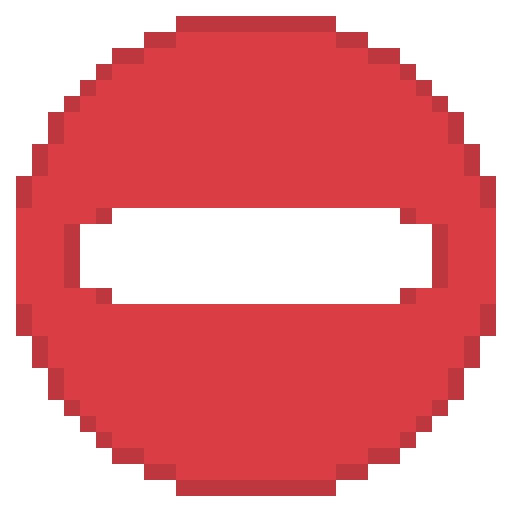
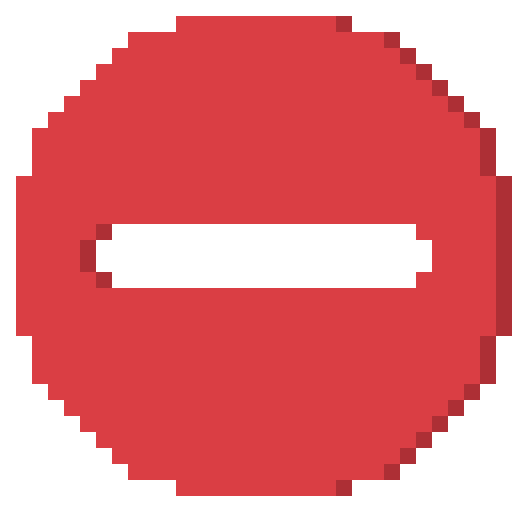
updates images, also had to drop images (for now hopefully)

diff --git a/src/main/java/me/bewf/clique/mixin/FriendsScreenMixin.java b/src/main/java/me/bewf/clique/mixin/FriendsScreenMixin.java
@@ -21,36 +21,33 @@ public abstract class FriendsScreenMixin extends Screen {
 
     protected FriendsScreenMixin(Component title) { super(title); }
 
-    //
     @Unique private static final int PANEL_WIDTH = 264;
-    @Unique private static final int PROFILE_Y   = 79;  // bump ±2 if misaligned
-    @Unique private static final int POPUP_W     = 130;
-    @Unique private static final int POPUP_H     = 12;
+    @Unique private static final int PROFILE_Y   = 79;
     @Unique private static final int PADDING     = 5;
+    @Unique private static final int ITEM_GAP    = 2;
 
-    @Unique private StatusDotWidget  cliqueStatusDot;
-    @Unique private List<Button>     cliquePopupOptions;
-    @Unique private boolean          cliquePopupOpen = false;
+    @Unique private StatusDotWidget  cliquePresenceBtn;
+    @Unique private List<Button>     cliquePopupBtns   = new ArrayList<>();
+    @Unique private List<UserState>  cliquePopupStates = new ArrayList<>();
+    @Unique private boolean          cliquePopupOpen   = false;
+    @Unique private int              cliquePopupStartY;
 
     @Inject(method = "init()V", at = @At("TAIL"))
     private void clique$init(CallbackInfo ci) {
         cliquePopupOpen = false;
-        if (cliquePopupOptions == null) cliquePopupOptions = new ArrayList<>();
-        else cliquePopupOptions.clear();
+        cliquePopupBtns.clear();
+        cliquePopupStates.clear();
 
         final int panelRight = (this.width + PANEL_WIDTH) / 2;
-        final int dotX = panelRight - StatusDotWidget.DISPLAY_SIZE - PADDING;
-        final int dotY = PROFILE_Y;
+        final int btnX       = panelRight - StatusDotWidget.BTN_W - PADDING;
 
-        cliqueStatusDot = new StatusDotWidget(dotX, dotY, () -> {
+        cliquePresenceBtn = new StatusDotWidget(btnX, PROFILE_Y, () -> {
             cliquePopupOpen = !cliquePopupOpen;
             clique$syncPopup();
         });
-        addRenderableWidget(cliqueStatusDot);
+        addRenderableWidget(cliquePresenceBtn);
 
-        // Popup drops below the dot, right-aligned with it
-        final int popupX = dotX + StatusDotWidget.DISPLAY_SIZE - POPUP_W;
-        final int popupStartY = dotY + StatusDotWidget.DISPLAY_SIZE + 2;
+        cliquePopupStartY = PROFILE_Y + StatusDotWidget.BTN_H + ITEM_GAP;
 
         record Opt(String label, UserState state) {}
         var opts = List.of(
@@ -59,21 +56,32 @@ public abstract class FriendsScreenMixin extends Screen {
                 new Opt("⊘ Do Not Disturb", UserState.DND)
         );
 
-        for (int i = 0; i < opts.size(); i++) {
-            final Opt opt = opts.get(i);
+        for (Opt opt : opts) {
             Button btn = Button.builder(Component.literal(opt.label()), b -> {
                 UserStateManager.setState(opt.state());
+                cliquePresenceBtn.syncLabel();
                 cliquePopupOpen = false;
                 clique$syncPopup();
-            }).bounds(popupX, popupStartY + i * (POPUP_H + 2), POPUP_W, POPUP_H).build();
+            }).bounds(btnX, cliquePopupStartY, StatusDotWidget.BTN_W, StatusDotWidget.BTN_H).build();
             btn.visible = false;
-            cliquePopupOptions.add(btn);
+            cliquePopupBtns.add(btn);
+            cliquePopupStates.add(opt.state());
             addRenderableWidget(btn);
         }
     }
 
     @Unique
     private void clique$syncPopup() {
-        cliquePopupOptions.forEach(b -> b.visible = cliquePopupOpen);
+        UserState current = UserStateManager.getState();
+        int y = cliquePopupStartY;
+        for (int i = 0; i < cliquePopupBtns.size(); i++) {
+            Button btn   = cliquePopupBtns.get(i);
+            boolean show = cliquePopupOpen && cliquePopupStates.get(i) != current;
+            btn.visible  = show;
+            if (show) {
+                btn.setY(y);
+                y += StatusDotWidget.BTN_H + ITEM_GAP;
+            }
+        }
     }
 }

diff --git a/src/main/java/me/bewf/clique/gui/StatusDotWidget.java b/src/main/java/me/bewf/clique/gui/StatusDotWidget.java
@@ -2,52 +2,45 @@ package me.bewf.clique.gui;
 
 import me.bewf.clique.userstate.UserStateManager;
 import net.minecraft.client.gui.GuiGraphicsExtractor;
-import net.minecraft.client.gui.components.AbstractWidget;
+import net.minecraft.client.gui.components.AbstractButton;
 import net.minecraft.client.gui.narration.NarrationElementOutput;
+import net.minecraft.client.input.InputWithModifiers;
 import net.minecraft.network.chat.Component;
-import net.minecraft.resources.Identifier;
 
-public class StatusDotWidget extends AbstractWidget {
+public class StatusDotWidget extends AbstractButton {
 
-    private static final Identifier TEX_ONLINE  = Identifier.of("clique", "textures/gui/online.png");
-    private static final Identifier TEX_OFFLINE = Identifier.of("clique", "textures/gui/offline.png");
-    private static final Identifier TEX_DND     = Identifier.of("clique", "textures/gui/dnd.png");
-
-    public static final int DISPLAY_SIZE = 32;
-    private static final int TEX_SIZE    = 512;
+    public static final int BTN_W = 110;
+    public static final int BTN_H = 14;
 
     private final Runnable onToggle;
 
     public StatusDotWidget(int x, int y, Runnable onToggle) {
-        super(x, y, DISPLAY_SIZE, DISPLAY_SIZE, Component.empty());
+        super(x, y, BTN_W, BTN_H, stateLabel());
         this.onToggle = onToggle;
     }
 
     @Override
-    public void extractWidgetRenderState(GuiGraphicsExtractor graphics, int mouseX, int mouseY, float partialTick) {
-        if (!this.visible) return;
-        float scale = (float) DISPLAY_SIZE / TEX_SIZE;
-        var pose = graphics.pose();
-        pose.pushPose();
-        pose.translate(getX(), getY(), 0f);
-        pose.scale(scale, scale, 1f);
-        graphics.blit(currentTex(), 0, 0, 0, 0, TEX_SIZE, TEX_SIZE, TEX_SIZE, TEX_SIZE);
-        pose.popPose();
+    protected void extractContents(GuiGraphicsExtractor graphics, int mouseX, int mouseY, float pt) {
+        extractDefaultSprite(graphics);
     }
 
     @Override
-    protected void onClick(double mouseX, double mouseY) {
+    public void onPress(InputWithModifiers input) {
         onToggle.run();
+    }
+
+    public void syncLabel() {
+        setMessage(stateLabel());
+    }
+
+    static Component stateLabel() {
+        return Component.literal(switch (UserStateManager.getState()) {
+            case OFFLINE -> "◌ Appear Offline";
+            case DND     -> "⊘ Do Not Disturb";
+            default      -> "● Online";
+        });
     }
 
     @Override
     protected void updateWidgetNarration(NarrationElementOutput output) {}
-
-    private Identifier currentTex() {
-        return switch (UserStateManager.getState()) {
-            case OFFLINE -> TEX_OFFLINE;
-            case DND     -> TEX_DND;
-            default      -> TEX_ONLINE;
-        };
-    }
 }
